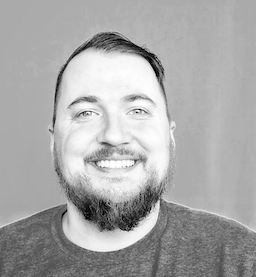
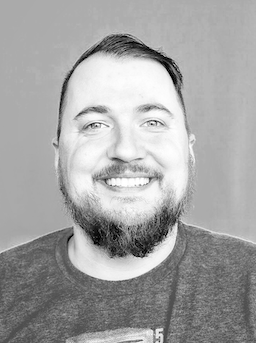
profilePic resize

diff --git a/index.html b/index.html
@@ -78,7 +78,7 @@
                     <div class="intro-text">
                         <span class="name">Andrew E. Sherman</span>
                         <hr class="star-light">
-                        <span class="skills">Software Engineer - Full Stack Developer - Human Rights Activist</span>
+                        <span class="skills">Software Engineer - Full Stack Developer - Proud Father</span>
                     </div>
                 </div>
             </div>
@@ -142,7 +142,7 @@
                                 <i class="fa fa-search-plus fa-3x"></i>
                             </div>
                         </div>
-                        <img src="img/portfolio/safe.png" class="img-responsive" alt="">
+                        <img src="img/portfolio/alexaLogo.png" class="img-responsive" alt="">
                     </a>
                 </div>
                 <div class="col-sm-4 portfolio-item">
@@ -170,10 +170,12 @@
             </div>
             <div class="row">
                 <div class="col-lg-4 col-lg-offset-2">
-                    <p>Freelancer is a free bootstrap theme created by Start Bootstrap. The download includes the complete source files including HTML, CSS, and JavaScript as well as optional LESS stylesheets for easy customization.</p>
+                    <p>Results-focused and hardworking Full Stack Software Engineer with experience using a variety of languages and frameworks.  Prior experience in a separate environment with managing teams, monitoring performance, training staff, and cultivating stakeholder relations to drive productivity and profitability. Organized, reliable, and goal-oriented team builder and multitasker capable of adapting quickly to all situations.</p>
                 </div>
                 <div class="col-lg-4">
-                    <p>Whether you're a student looking to showcase your work, a professional looking to attract clients, or a graphic artist looking to share your projects, this template is the perfect starting point!</p>
+                    <p>Professional-level experience with:
+                        <br>-Golang <br>-JavaScript <br>-React <br>-React Native <br>-MySQL  <br>-HTML <br>-CSS  <br>-Smart Home Products  <br>-"Works With Alexa" Development
+                    </p>
                 </div>
                 <div class="col-lg-8 col-lg-offset-2 text-center">
                     <a href="#" class="btn btn-lg btn-outline">
@@ -252,19 +254,19 @@
                         <h3>See more of me</h3>
                         <ul class="list-inline">
                             <li>
-                                <a href="#" class="btn-social btn-outline"><i class="fa fa-fw fa-facebook"></i></a>
+                                <a href="https://www.linkedin.com/in/andrew-e-sherman/" class="btn-social btn-outline"><i class="fa fa-fw fa-linkedin"></i></a>
                             </li>
                             <li>
-                                <a href="#" class="btn-social btn-outline"><i class="fa fa-fw fa-google-plus"></i></a>
+                                <a href="https://github.com/aesherman" class="btn-social btn-outline"><i class="fa fa-fw fa-github"></i></a>
                             </li>
                             <li>
-                                <a href="#" class="btn-social btn-outline"><i class="fa fa-fw fa-twitter"></i></a>
+                                <a href="https://bitbucket.org/aesherman/" class="btn-social btn-outline"><i class="fa fa-fw fa-bitbucket"></i></a>
                             </li>
                             <li>
-                                <a href="#" class="btn-social btn-outline"><i class="fa fa-fw fa-linkedin"></i></a>
+                                <a href="https://twitter.com/aesherman" class="btn-social btn-outline"><i class="fa fa-fw fa-twitter"></i></a>
                             </li>
                             <li>
-                                <a href="#" class="btn-social btn-outline"><i class="fa fa-fw fa-github"></i></a>
+                                <a href="https://www.instagram.com/andrewesherman/" class="btn-social btn-outline"><i class="fa fa-fw fa-instagram"></i></a>
                             </li>
                         </ul>
                     </div>
@@ -454,13 +456,13 @@
                 <div class="row">
                     <div class="col-lg-8 col-lg-offset-2">
                         <div class="modal-body">
-                            <h2>Project Title</h2>
+                            <h2>Alexa Skills Development</h2>
                             <hr class="star-primary">
-                            <img src="img/portfolio/safe.png" class="img-responsive img-centered" alt="">
-                            <p>Use this area of the page to describe your project. The icon above is part of a free icon set by <a href="https://sellfy.com/p/8Q9P/jV3VZ/">Flat Icons</a>. On their website, you can download their free set with 16 icons, or you can purchase the entire set with 146 icons for only $12!</p>
+                            <img src="img/portfolio/alexaLogo.png" class="img-responsive img-centered" alt="">
+                            <p>Use this area of the page to describe your project. The icon above is part of a free icon set by <a href="https://smile.amazon.com/Wagz-Inc/dp/B07C88MQ8K/ref=sr_1_4?ie=UTF8&qid=1547254784&sr=8-4&keywords=wagz">Amazon</a>. On their website, you can download their free set with 16 icons, or you can purchase the entire set with 146 icons for only $12!</p>
                             <ul class="list-inline item-details">
                                 <li>Client:
-                                    <strong><a href="http://startbootstrap.com">Start Bootstrap</a>
+                                    <strong><a href="https://www.wagz.com/">Wagz</a>
                                     </strong>
                                 </li>
                                 <li>Date:
